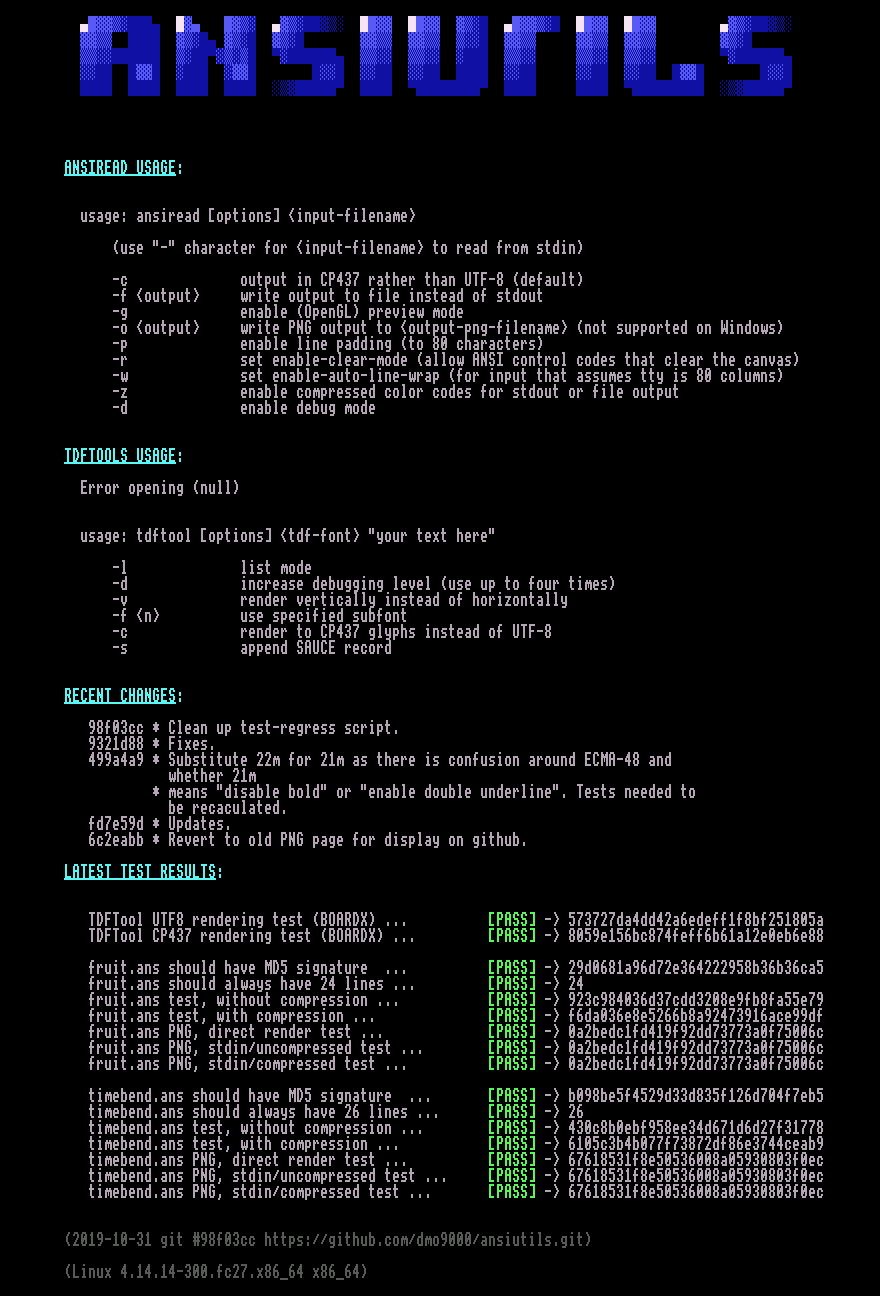
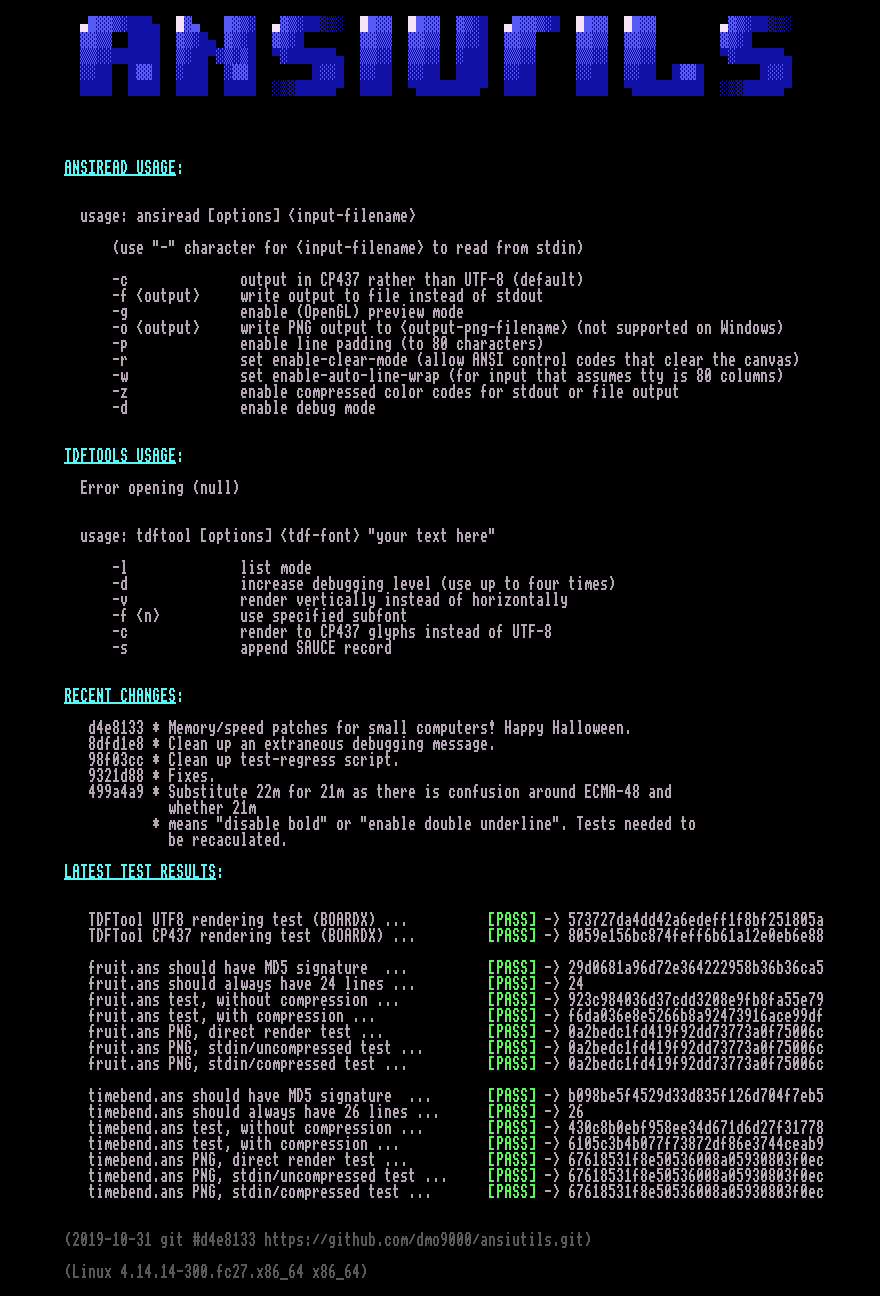
Fix commenting.

Changed region(s): [[0.092, 0.5556, 0.767, 0.6481]]

diff --git a/ansiutils.html b/ansiutils.html
@@ -53,14 +53,14 @@
 
 	<span style="color:aqua;"></span><span style="text-decoration:underline;color:aqua;"></span><span style="text-decoration:underline;font-weight:bold;color:aqua;">RECENT CHANGES</span><span style="font-weight:bold;color:aqua;">:</span><span style="color:aqua;"></span>
 
+<span style="color:white;background-color:black;">           d4e8133 * Memory/speed patches for small computers! Happy Halloween.</span>
+<span style="color:white;background-color:black;">           8dfd1e8 * Clean up an extraneous debugging message.</span>
 <span style="color:white;background-color:black;">           98f03cc * Clean up test-regress script.</span>
 <span style="color:white;background-color:black;">           9321d88 * Fixes.</span>
 <span style="color:white;background-color:black;">           499a4a9 * Substitute 22m for 21m as there is confusion around ECMA-48 and</span>
 <span style="color:white;background-color:black;">                     whether 21m</span>
 <span style="color:white;background-color:black;">                   * means &quot;disable bold&quot; or &quot;enable double underline&quot;. Tests needed to</span>
 <span style="color:white;background-color:black;">                     be recaculated.</span>
-<span style="color:white;background-color:black;">           fd7e59d * Updates.</span>
-<span style="color:white;background-color:black;">           6c2eabb * Revert to old PNG page for display on github.</span>
 
 	<span style="color:aqua;"></span><span style="text-decoration:underline;color:aqua;"></span><span style="text-decoration:underline;font-weight:bold;color:aqua;">LATEST TEST RESULTS</span><span style="font-weight:bold;color:aqua;">:</span><span style="color:aqua;"></span>
 
@@ -85,7 +85,7 @@
 <span style="color:white;background-color:black;">           timebend.ans PNG, stdin/compressed test ...       </span><span style="color:lime;background-color:black;"></span><span style="font-weight:bold;color:lime;background-color:black;">[PASS]</span><span style="font-weight:bold;color:white;background-color:black;"></span><span style="color:white;background-color:black;"> -&gt; 67618531f8e50536008a05930803f0ec </span>
 <span style="color:white;background-color:black;">           </span>
 
-	<span style="color:dimgray;"></span><span style="font-weight:bold;color:dimgray;">(2019-10-31 git #98f03cc https://github.com/dmo9000/ansiutils.git)</span><span style="color:dimgray;"></span>
+	<span style="color:dimgray;"></span><span style="font-weight:bold;color:dimgray;">(2019-10-31 git #d4e8133 https://github.com/dmo9000/ansiutils.git)</span><span style="color:dimgray;"></span>
 
 	<span style="color:dimgray;"></span><span style="font-weight:bold;color:dimgray;">(Linux 4.14.14-300.fc27.x86_64 x86_64)</span><span style="color:dimgray;"></span>
                                                                                                               

diff --git a/tdftool.c b/tdftool.c
@@ -318,14 +318,14 @@ int main(int argc, char *argv[])
                    Prior to 2019-10-31, empty rasters were pre-allocated for every glyph,
                 even if not needed. We now allocate them on the fly, so that
                 we save on speed and memory for smaller systems
-                */
 
                 for (jj = 0; jj < MAX_LINES; jj++) {
                     new_font->characters[ii].char_rasters[jj] = create_new_raster();
                     new_font->characters[ii].char_rasters[jj]->bytes = 0;
                     new_font->characters[ii].char_rasters[jj]->chardata = NULL;
                 }
-                */
+
+								*/
 
                 //   assert(new_font->characters[ii].offset != 0xFFFF);
 
